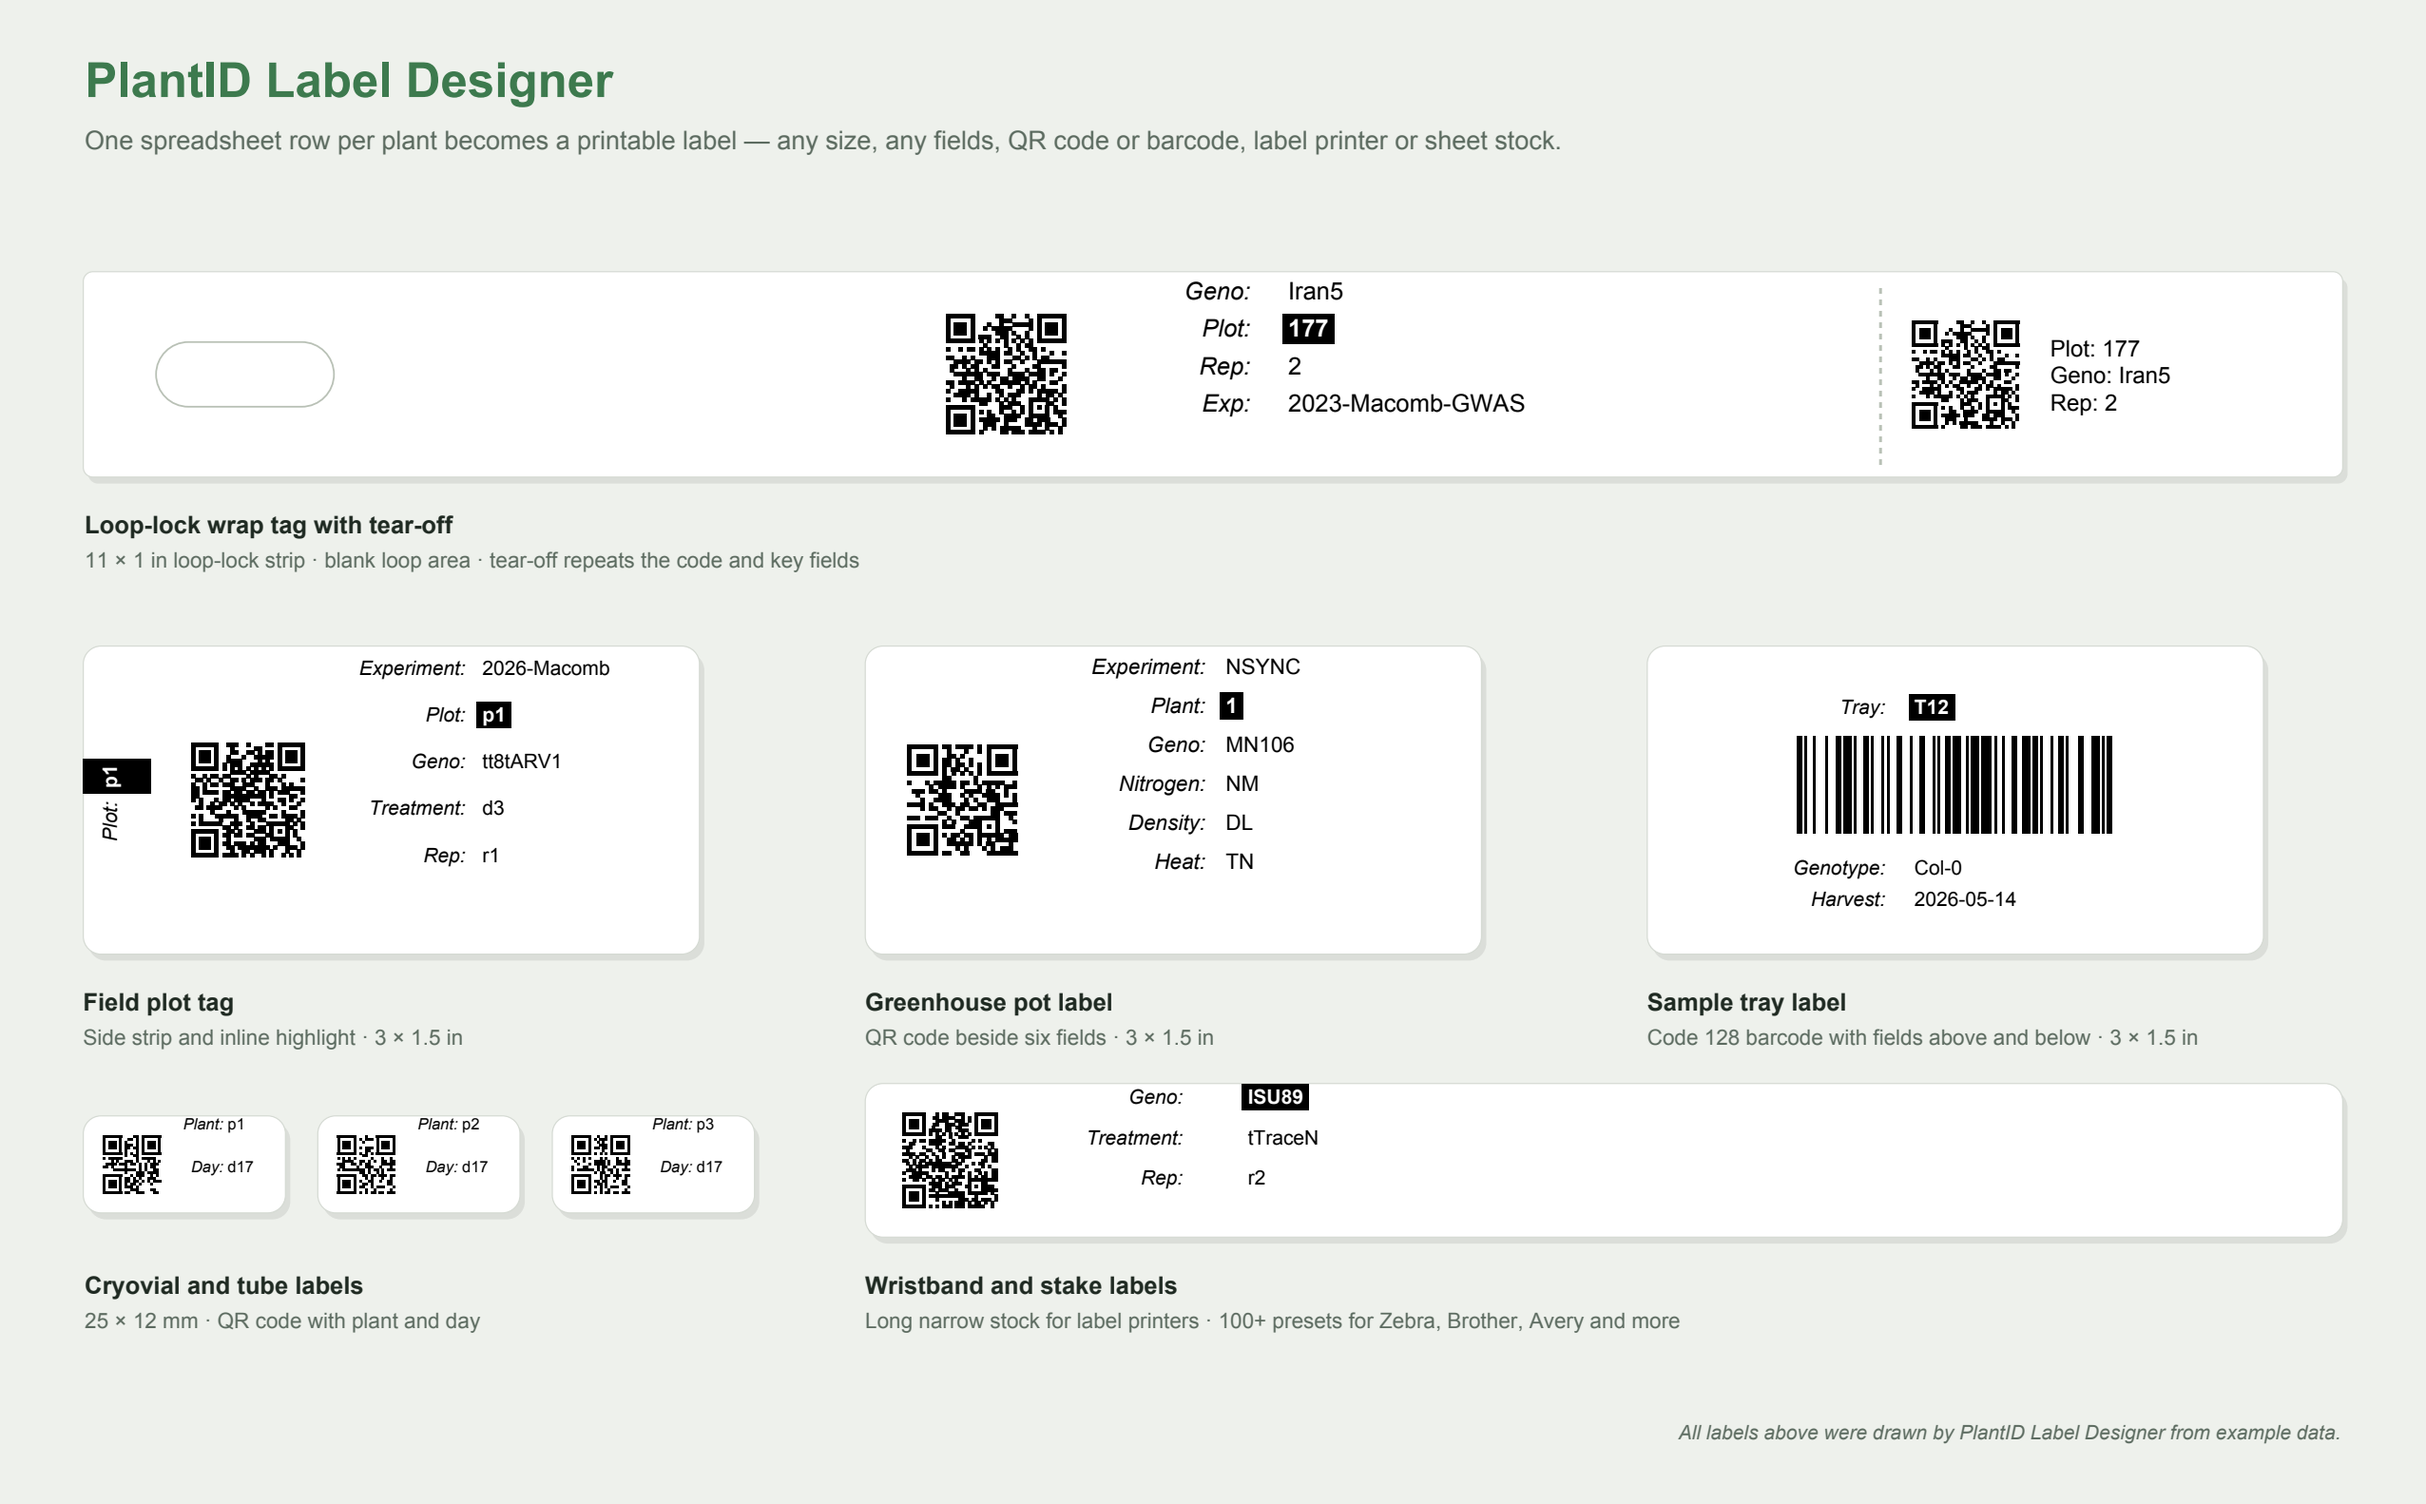
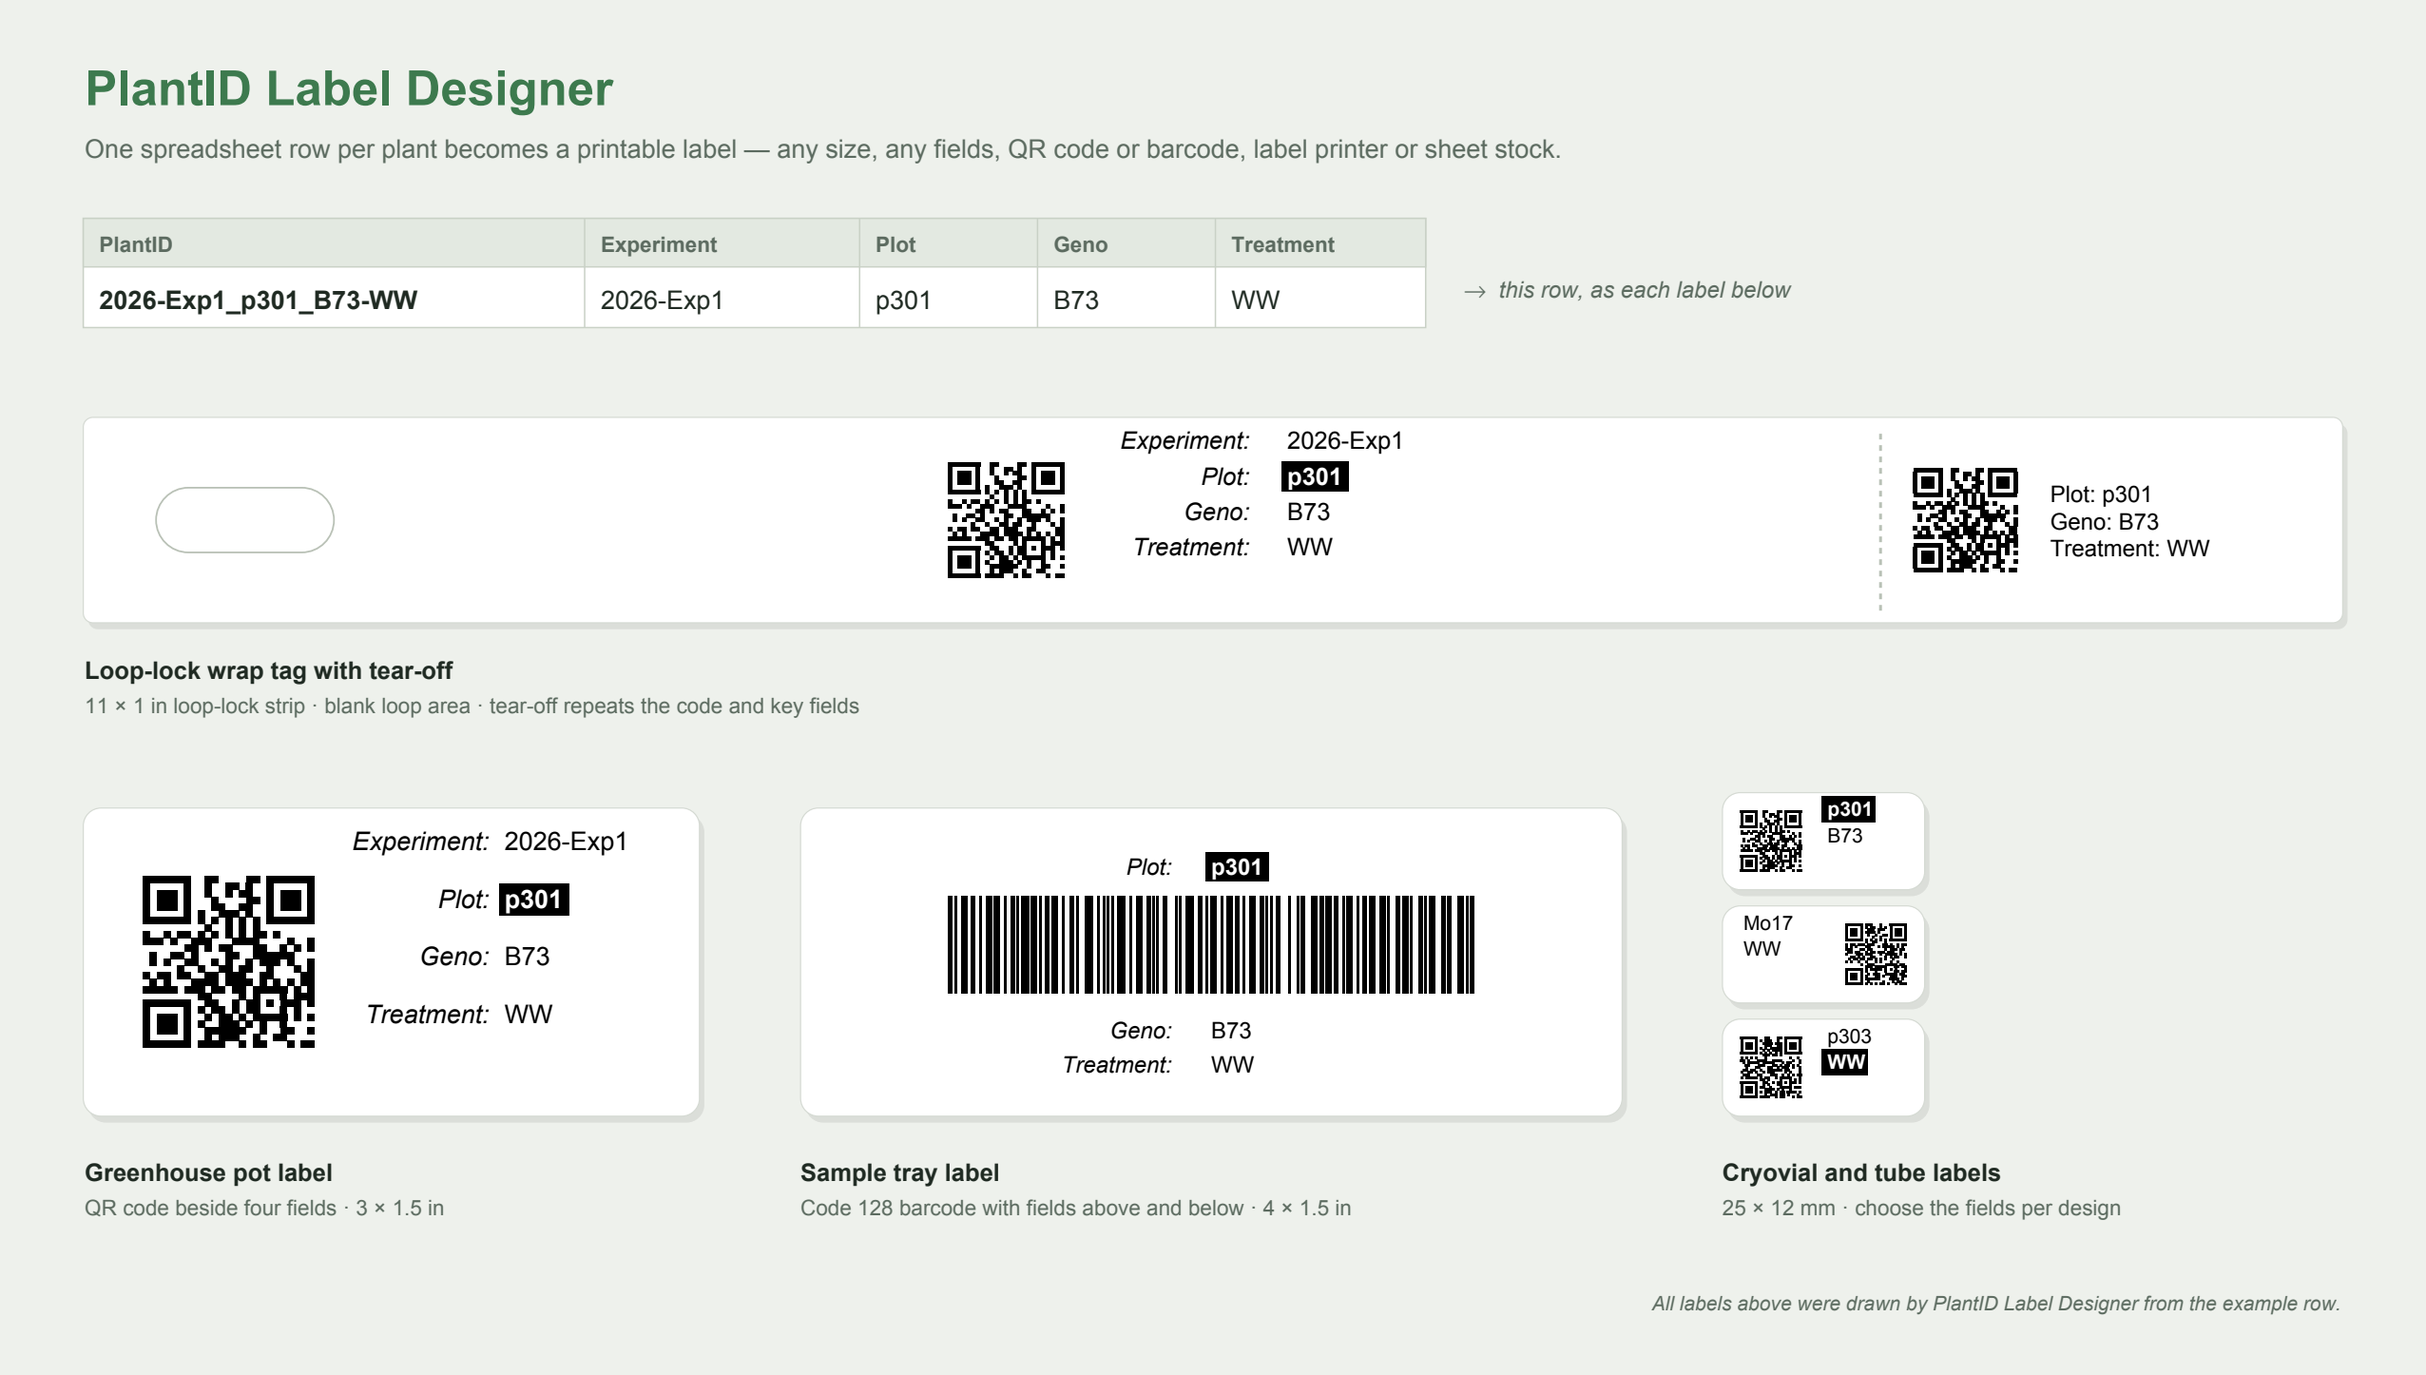
Rework the label gallery around one example PlantID
Show the example spreadsheet row at the top and draw every label from
it; drop the field plot and wristband examples, enlarge the pot
label's QR code and text, and vary the fields on each cryovial label.

diff --git a/docs/make_label_showcase.py b/docs/make_label_showcase.py
@@ -27,20 +27,18 @@ draw_label = namespace["draw_label_on_canvas"]
 wrap_config = namespace["wrap_config"]
 WRAP_DEFAULTS = namespace["WRAP_DEFAULTS"]
 
-PAGE_W, PAGE_H = 300, 186  # mm
+PAGE_W, PAGE_H = 300, 170  # mm
 BACKGROUND = colors.HexColor("#EEF1EC")
 INK = colors.HexColor("#1F2A22")
 MUTED = colors.HexColor("#5C6B60")
 ACCENT = colors.HexColor("#3D7A4E")
+GRID = colors.HexColor("#C9D1C6")
 
-GWAS = {"UUID": "2023-Macomb-GWAS_p177_r2_Iran5", "Geno": "Iran5", "Plot": "177",
-        "Rep": "2", "Exp": "2023-Macomb-GWAS"}
-FIELD = {"PlantID": "2026-Macomb_p1_tt8tARV1_d3_r1", "Experiment": "2026-Macomb", "Plot": "p1",
-         "Geno": "tt8tARV1", "Treatment": "d3", "Rep": "r1"}
-POT = {"PlantID": "NSYNC_1_MN106_NM_DL_TN", "Experiment": "NSYNC", "Plant": "1",
-       "Geno": "MN106", "Nitrogen": "NM", "Density": "DL", "Heat": "TN"}
-TRAY = {"SampleID": "LEAF-0457", "Tray": "T12", "Genotype": "Col-0", "Harvest": "2026-05-14"}
-TUBES = [{"PlantID": f"TaGNE_p{n}_d17", "Plant": f"p{n}", "Day": "d17"} for n in (1, 2, 3)]
+# One plant drives every label; the tubes add its neighbours in the experiment.
+PLANT = {"PlantID": "2026-Exp1_p301_B73-WW", "Experiment": "2026-Exp1", "Plot": "p301",
+         "Geno": "B73", "Treatment": "WW"}
+TUBES = [{**PLANT, "PlantID": f"2026-Exp1_{plot}_{geno}-WW", "Plot": plot, "Geno": geno}
+         for plot, geno in (("p301", "B73"), ("p302", "Mo17"), ("p303", "W22"))]
 
 BASE = dict(code_type="QR", highlight_column=None, label_font="Helvetica", label_font_size=7,
             qr_size=18, barcode_width=25, barcode_height=10, row_height_factor=0.9,
@@ -65,10 +63,10 @@ def stock(c, x, y, w, h, radius=2.2):
     c.restoreState()
 
 
-def label(c, row, x, y, w, h, **design):
+def label(c, row, x, y, w, h, fields, **design):
     stock(c, x, y, w, h)
     draw_label(c, row, x * mm, y * mm, label_width=w, label_height=h,
-               **{**BASE, "visible_columns": list(row)[1:], "code_column": list(row)[0], **design})
+               **{**BASE, "visible_columns": fields, "code_column": "PlantID", **design})
 
 
 def caption(c, x, y, title, detail):
@@ -80,6 +78,31 @@ def caption(c, x, y, title, detail):
     c.drawString(x * mm, (y - 4.2) * mm, detail)
 
 
+def spreadsheet_row(c, x, top, row, widths):
+    """The example data as it appears in a spreadsheet: a header and one row."""
+    header_h, row_h = 6, 7.5
+    total = sum(widths)
+    c.saveState()
+    c.setFillColor(colors.white)
+    c.setStrokeColor(GRID)
+    c.setLineWidth(0.5)
+    c.rect(x * mm, (top - header_h - row_h) * mm, total * mm, (header_h + row_h) * mm, stroke=1, fill=1)
+    c.setFillColor(colors.HexColor("#E3E9E1"))
+    c.rect(x * mm, (top - header_h) * mm, total * mm, header_h * mm, stroke=1, fill=1)
+    left = x
+    for (column, value), width in zip(row.items(), widths):
+        if left > x:
+            c.line(left * mm, (top - header_h - row_h) * mm, left * mm, top * mm)
+        c.setFillColor(MUTED)
+        c.setFont("Helvetica-Bold", 7.5)
+        c.drawString((left + 2) * mm, (top - 4.2) * mm, column)
+        c.setFillColor(INK)
+        c.setFont("Helvetica-Bold" if column == "PlantID" else "Helvetica", 9)
+        c.drawString((left + 2) * mm, (top - header_h - 5.2) * mm, value)
+        left += width
+    c.restoreState()
+
+
 def main():
     buffer = io.BytesIO()
     c = canvas.Canvas(buffer, pagesize=(PAGE_W * mm, PAGE_H * mm))
@@ -88,15 +111,20 @@ def main():
 
     c.setFillColor(ACCENT)
     c.setFont("Helvetica-Bold", 17)
-    c.drawString(10.5 * mm, 174 * mm, "PlantID Label Designer")
+    c.drawString(10.5 * mm, 157 * mm, "PlantID Label Designer")
     c.setFillColor(MUTED)
     c.setFont("Helvetica", 9)
-    c.drawString(10.5 * mm, 167.5 * mm,
+    c.drawString(10.5 * mm, 150.5 * mm,
                  "One spreadsheet row per plant becomes a printable label — any size, any fields, "
                  "QR code or barcode, label printer or sheet stock.")
 
+    spreadsheet_row(c, 10.3, 143, PLANT, [62, 34, 22, 22, 26])
+    c.setFillColor(MUTED)
+    c.setFont("Helvetica-Oblique", 8)
+    c.drawString(181 * mm, 133.2 * mm, "→  this row, as each label below")
+
     # Loop-lock wrap tag: blank loop area, main label, detachable tear-off.
-    tag_x, tag_y, tag_w, tag_h = 10.3, 127, 279.4, 25.4
+    tag_x, tag_y, tag_w, tag_h = 10.3, 93, 279.4, 25.4
     stock(c, tag_x, tag_y, tag_w, tag_h, radius=1.2)
     c.saveState()  # The stock's lock slot, for orientation only.
     c.setStrokeColor(colors.HexColor("#B9C1B6"))
@@ -104,13 +132,13 @@ def main():
     c.roundRect((tag_x + 9) * mm, (tag_y + 8.7) * mm, 22 * mm, 8 * mm, 4 * mm, stroke=1, fill=0)
     c.restoreState()
     wrap = wrap_config({**WRAP_DEFAULTS, "wrap_enabled_check": True, "wrap_custom_fields_check": True,
-                        "wrap_text_columns_multiselect": ["Plot", "Geno", "Rep"],
+                        "wrap_text_columns_multiselect": ["Plot", "Geno", "Treatment"],
                         "wrap_qr_size_mm_input": 17.0, "wrap_font_size_input": 8.0},
-                       ["Geno", "Plot", "Rep", "Exp"], "UUID")
-    draw_label(c, GWAS, tag_x * mm, tag_y * mm, **{
-        **BASE, "visible_columns": ["Geno", "Plot", "Rep", "Exp"], "code_column": "UUID",
+                       ["Experiment", "Plot", "Geno", "Treatment"], "PlantID")
+    draw_label(c, PLANT, tag_x * mm, tag_y * mm, **{
+        **BASE, "visible_columns": ["Experiment", "Plot", "Geno", "Treatment"], "code_column": "PlantID",
         "highlight_column": "Plot", "label_width": tag_w, "label_height": tag_h, "qr_size": 19,
-        "label_font_size": 8.5, "row_height_factor": 0.95, "col_name_width_ratio": 0.2,
+        "padding": 3.5, "label_font_size": 8.5, "row_height_factor": 0.95, "col_name_width_ratio": 0.2,
         "wrap_tag": wrap})
     c.saveState()  # Perforation between the main tag and its tear-off.
     c.setStrokeColor(colors.HexColor("#B9C1B6"))
@@ -118,42 +146,38 @@ def main():
     tear_x = (tag_x + tag_w - wrap["width"]) * mm
     c.line(tear_x, (tag_y + 1.5) * mm, tear_x, (tag_y + tag_h - 1.5) * mm)
     c.restoreState()
-    caption(c, 10.5, 120, "Loop-lock wrap tag with tear-off",
+    caption(c, 10.5, 86, "Loop-lock wrap tag with tear-off",
             "11 × 1 in loop-lock strip · blank loop area · tear-off repeats the code and key fields")
 
-    # Three 76 × 38 mm designs.
-    for index, (row, design, title, detail) in enumerate((
-        (FIELD, dict(highlight_column="Plot", side_highlight=True, sidebar_factor=0.11),
-         "Field plot tag", "Side strip and inline highlight · 3 × 1.5 in"),
-        (POT, dict(highlight_column="Plant", label_font_size=7.5),
-         "Greenhouse pot label", "QR code beside six fields · 3 × 1.5 in"),
-        (TRAY, dict(code_type="Barcode", barcode_width=60, barcode_height=12,
-                    barcode_text_position="Above and below barcode",
-                    barcode_above_columns=["Tray"], label_font_size=7, padding=2,
-                    qr_left_offset=8, highlight_column="Tray"),
-         "Sample tray label", "Code 128 barcode with fields above and below · 3 × 1.5 in"),
-    )):
-        x = 10.3 + index * 96.7
-        label(c, row, x, 68, 76.2, 38.1, **design)
-        caption(c, x, 61, title, detail)
+    # Greenhouse pot label: a large QR code beside four evenly spaced fields.
+    label(c, PLANT, 10.3, 32, 76.2, 38.1, ["Experiment", "Plot", "Geno", "Treatment"],
+          qr_size=28, qr_left_offset=4, padding=4.5, label_font_size=9, row_height_factor=0.98,
+          col_name_width_ratio=0.43, highlight_column="Plot")
+    caption(c, 10.5, 24, "Greenhouse pot label", "QR code beside four fields · 3 × 1.5 in")
 
-    # Cryovial / microtube labels.
-    for index, row in enumerate(TUBES):
-        label(c, row, 10.3 + index * 29, 36, 25, 12, qr_size=10, padding=1.2, qr_left_offset=1,
-              label_font_size=5.5, row_height_factor=1.1, col_name_width_ratio=0.4)
-    caption(c, 10.5, 26, "Cryovial and tube labels", "25 × 12 mm · QR code with plant and day")
+    # Sample tray label: barcode with the plot above and the rest below.
+    label(c, PLANT, 99, 32, 101.6, 38.1, ["Plot", "Geno", "Treatment"], code_type="Barcode",
+          barcode_width=82, barcode_height=12, barcode_text_position="Above and below barcode",
+          barcode_above_columns=["Plot"], label_font_size=8, padding=2, qr_left_offset=9.8,
+          highlight_column="Plot", col_name_width_ratio=0.45)
+    caption(c, 99, 24, "Sample tray label", "Code 128 barcode with fields above and below · 4 × 1.5 in")
 
-    # Wristband label printer stock.
-    label(c, {"PlantID": "TaGNE_p34_ISU89_tTraceN_r2_d17", "Geno": "ISU89", "Treatment": "tTraceN",
-              "Rep": "r2"}, 107, 33, 182.7, 19, qr_size=15, padding=2, qr_left_offset=3,
-          label_font_size=7, row_height_factor=1.0, col_name_width_ratio=0.12, highlight_column="Geno")
-    caption(c, 107, 26, "Wristband and stake labels",
-            "Long narrow stock for label printers · 100+ presets for Zebra, Brother, Avery and more")
+    # Cryovial / microtube labels: each tube shows a different choice of fields.
+    tube_designs = (
+        dict(fields=["Plot", "Geno"], highlight_column="Plot"),
+        dict(fields=["Geno", "Treatment"], code_position="Right"),
+        dict(fields=["Plot", "Treatment"], highlight_column="Treatment"),
+    )
+    for index, (row, design) in enumerate(zip(TUBES, tube_designs)):
+        label(c, row, 213, 60 - index * 14, 25, 12, design.pop("fields"), qr_size=10, padding=2.6,
+              qr_left_offset=1, label_font_size=7, row_height_factor=0.95, show_column_names=False,
+              highlight_padding=3, **design)
+    caption(c, 213, 24, "Cryovial and tube labels", "25 × 12 mm · choose the fields per design")
 
     c.setFillColor(MUTED)
     c.setFont("Helvetica-Oblique", 7)
     c.drawRightString((PAGE_W - 10.5) * mm, 8 * mm,
-                      "All labels above were drawn by PlantID Label Designer from example data.")
+                      "All labels above were drawn by PlantID Label Designer from the example row.")
     c.save()
 
     page = pdfium.PdfDocument(buffer.getvalue())[0]

diff --git a/README.md b/README.md
@@ -4,7 +4,7 @@
 PlantID Label Designer is a Streamlit web application for generating customizable plant sample labels. The app allows researchers to visualize, design, and export labels with QR codes, highlighted metadata, and flexible sizing for a variety of use cases including cryovials, plant tags, wrap tags, and more.
 It is designed to work both locally and on Streamlit Cloud.
 
-![Examples of labels made with PlantID Label Designer: a loop-lock wrap tag with tear-off, field plot tag, greenhouse pot label, barcode tray label, cryovial labels, and a wristband label](docs/label-showcase.png)
+![One spreadsheet row, PlantID 2026-Exp1_p301_B73-WW, drawn by PlantID Label Designer as a loop-lock wrap tag with tear-off, a greenhouse pot label, a barcode tray label, and cryovial labels](docs/label-showcase.png)
 
 ## Try the online version
 Try the app directly without installation
